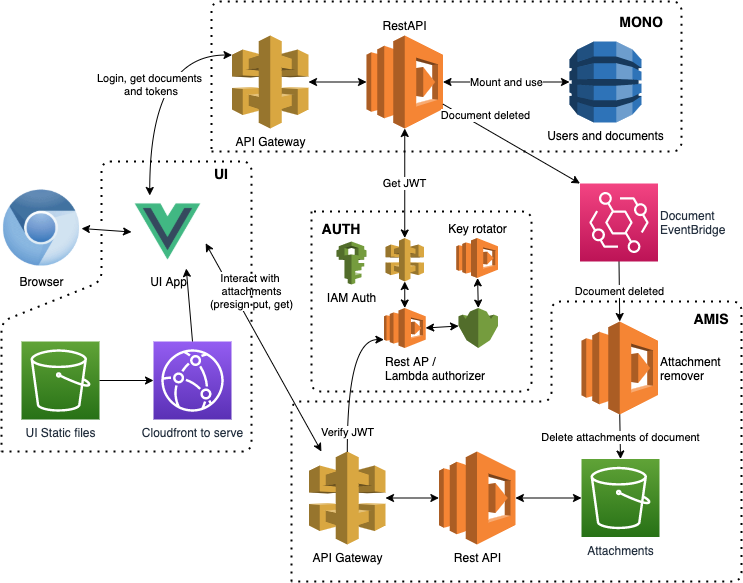
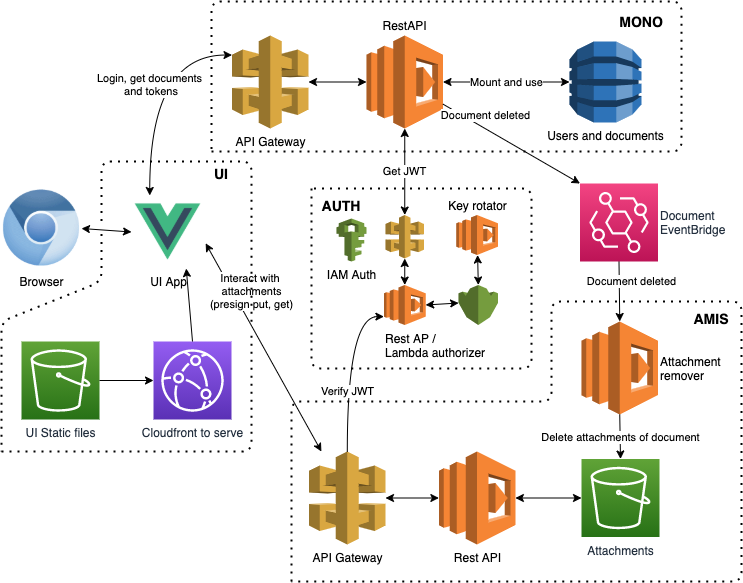
Eventbus to delete attachments when docs are deleted

Changed region(s): [[0.4334, 0.2779, 0.681, 0.6792], [0.7739, 0.4631, 0.9287, 0.5249], [0.4334, 0.7101, 0.4953, 0.7719]]

diff --git a/netcore-monolith-attachment-ms-jwt-auth/cdk/lib/amis.ts b/netcore-monolith-attachment-ms-jwt-auth/cdk/lib/amis.ts
@@ -5,7 +5,7 @@ import * as lambda from "@aws-cdk/aws-lambda";
 import * as s3 from "@aws-cdk/aws-s3";
 import * as cdk from "@aws-cdk/core";
 import * as A from "./auth";
-import { GlobalProps } from "./models";
+import { DELETE_EVENT_BUS_NAME, GlobalProps } from "./models";
 
 const ASSET_LOCATION = "../src/amis/bin/Release/netcoreapp3.1/linux-x64";
 const HANDLER = "amis::Amis.LambdaEntryPoint::FunctionHandlerAsync";
@@ -20,6 +20,7 @@ const BUCKET_NAME = "amis-document-data";
 
 export class Amis {
   lambda: lambda.Function;
+  deleteLambda: lambda.Function;
   eventBus: events.EventBus;
   private authStack: A.Auth;
   private stack: cdk.Stack;
@@ -65,7 +66,7 @@ export class Amis {
   }
 
   private deleter(stack: cdk.Stack) {
-    const fun = new lambda.Function(stack, PREFIX + "DELETE_Lambda", {
+    this.deleteLambda = new lambda.Function(stack, PREFIX + "DELETE_Lambda", {
       runtime: DELETER_RUNTIME,
       code: lambda.Code.fromAsset(DELETER_LOCATION),
       handler: DELETER_HANDLER,
@@ -75,7 +76,7 @@ export class Amis {
     });
 
     this.eventBus = new events.EventBus(stack, PREFIX + "ProfileEventBus", {
-      eventBusName: "DeleteAttachment",
+      eventBusName: DELETE_EVENT_BUS_NAME,
     });
 
     const rule = new events.Rule(stack, PREFIX + "NewRule", {
@@ -85,7 +86,7 @@ export class Amis {
       },
       eventBus: this.eventBus,
     });
-    rule.addTarget(new targets.LambdaFunction(fun));
+    rule.addTarget(new targets.LambdaFunction(this.deleteLambda));
   }
 
   private initBucket() {
@@ -105,6 +106,7 @@ export class Amis {
       ],
     });
     bucket.grantReadWrite(this.lambda);
+    bucket.grantReadWrite(this.deleteLambda);
   }
 
   private withoutAuth() {

diff --git a/netcore-monolith-attachment-ms-jwt-auth/src/ui/src/views/Document.vue b/netcore-monolith-attachment-ms-jwt-auth/src/ui/src/views/Document.vue
@@ -43,7 +43,7 @@
             <p>
               <a href="javascript:void(0)" v-on:click="loadFile(k)">{{k.name}}</a> {{k.lastModified}} {{k.size}}
               <a href="javascript:void(0)" v-on:click="deleteFile(k)" v-if="i.allowDelete">Delete</a>      
-              <a href="javascript:void(0)" v-on:click="deleteFile(k, true)" v-if="i.allowDeleteMy && i.userId == myId">Delete</a>      
+              <a href="javascript:void(0)" v-on:click="deleteFile(k, true)" v-if="i.allowDeleteMy && k.userId == myId">Delete</a>                    
             </p>
           </div>
         </div>
@@ -61,6 +61,7 @@ interface FileDTO {
   lastModified: number;
   path: string;
   size: number;
+  userId: string;
 }
 
 interface File {  
@@ -69,6 +70,7 @@ interface File {
   path: string;
   size: string;
   name: string;
+  userId: string;
 }
 
 interface Area {
@@ -139,6 +141,7 @@ export default class Document extends Vue {
         area: parts[1],
         name: parts[2],
         path: i.path,
+        userId: i.userId,
         size: i.size.toString() // Should be formatted nicely
         }
       });
@@ -153,7 +156,7 @@ export default class Document extends Vue {
           allowDelete: perm[i].indexOf('DELETE') !== -1,
           allowDeleteMy: perm[i].indexOf('DELETE-MY') !== -1
         } 
-      });      
+      });            
   }
 
   public async loadFile(f: File) {
@@ -179,7 +182,7 @@ export default class Document extends Vue {
   }
 
   async selectedFile(event: any) {
-    if (!this.addingTo) {
+    if (!this.addingTo || event.target.files.length != 1) {
       return;
     }
     const file = event.target.files[0];      

diff --git a/netcore-monolith-attachment-ms-jwt-auth/src/amis-delete-doc/main.ts b/netcore-monolith-attachment-ms-jwt-auth/src/amis-delete-doc/main.ts
@@ -1,32 +1,34 @@
 import * as aws from "aws-sdk";
 
-export class S3Service {
-  private readonly s3: aws.S3;
-
-  constructor() {
-    this.s3 = new aws.S3();
-  }
-}
-
 export async function lambdaHandler(event, context) {
   console.log(event);
-  /*
-  this.s3 = new aws.S3();
-  const params = {
-    Bucket: process.env.bucketName,
-    Key: location,
-  };
-  await this.s3.deleteObject(params).promise();
-  */
+  const docId = event.detail.docId;
+  const s3 = new aws.S3();
 
-  return {
-    statusCode: 200,
-    headers: { "Content-Type": "text/json" },
-    body: JSON.stringify({
-      msg: "Hello world!",
-      event,
-      context,
-      env: process.env,
-    }),
+  const listParams = {
+    Bucket: process.env.bucketName,
+    Prefix: docId,
   };
+
+  const promise = new Promise((resolve, reject) => {
+    s3.listObjects(listParams, (err, objects) => {
+      if (err) {
+        console.log("Error with list ", listParams, err);
+        reject();
+      } else {
+        const promises = objects.Contents.map((i) => {
+          console.log("Deleting " + i.Key);
+          const params = {
+            Bucket: process.env.bucketName,
+            Key: i.Key,
+          };
+          return s3.deleteObject(params).promise();
+        });
+        Promise.all(promises).then((i) => resolve(true));
+      }
+    });
+  });
+  await promise;
+  console.log(`All attachments for ${docId} deleted.`);
+  return true;
 }

diff --git a/netcore-monolith-attachment-ms-jwt-auth/cdk/lib/mono.ts b/netcore-monolith-attachment-ms-jwt-auth/cdk/lib/mono.ts
@@ -7,7 +7,7 @@ import * as cdk from "@aws-cdk/core";
 import { Duration } from "@aws-cdk/core";
 import { Auth } from "./auth";
 import { CdkStack } from "./cdk-stack";
-import { GlobalProps } from "./models";
+import { DELETE_EVENT_BUS_NAME, GlobalProps } from "./models";
 
 const ASSET_LOCATION = "../src/mono/bin/Release/netcoreapp3.1/linux-x64";
 const HANDLER = "mono::Mono.LambdaEntryPoint::FunctionHandlerAsync";
@@ -39,6 +39,7 @@ export class Mono {
       environment: {
         authUrl: authStack.apigw.url + "jwt",
         authType: props.amisAuth,
+        deleteEventBus: DELETE_EVENT_BUS_NAME,
       },
     });
 

diff --git a/netcore-monolith-attachment-ms-jwt-auth/src/ui/src/App.vue b/netcore-monolith-attachment-ms-jwt-auth/src/ui/src/App.vue
@@ -47,6 +47,7 @@ export default {
     doLogout() {
       console.log('Logging out');
       (this as any).$store.state.isLoggedIn = false;
+      (this as any).$store.state.permissions = undefined;
       (this as any).$router.push('/');
     }
   }

diff --git a/netcore-monolith-attachment-ms-jwt-auth/cdk/lib/models.ts b/netcore-monolith-attachment-ms-jwt-auth/cdk/lib/models.ts
@@ -1,3 +1,5 @@
 export interface GlobalProps {
   amisAuth: "api" | "lambda" | "jwt";
 }
+
+export const DELETE_EVENT_BUS_NAME = "DeleteAttachment";

diff --git a/netcore-monolith-attachment-ms-jwt-auth/src/mono/Utils/EventBus.cs b/netcore-monolith-attachment-ms-jwt-auth/src/mono/Utils/EventBus.cs
@@ -1,0 +1,52 @@
+using System;
+using System.Threading.Tasks;
+using Amazon.EventBridge;
+using Amazon.EventBridge.Model;
+
+namespace Mono.Utils
+{
+    public interface IEventBus
+    {
+        Task SendDeleteAttachmentEvent(string docId);
+        Task<PutEventsResponse> SendEvent(PutEventsRequestEntry eventEntry);
+    }
+
+    public class EventBus : IEventBus
+    {
+        public EventBus()
+        {
+        }
+
+        public async Task SendDeleteAttachmentEvent(string docId)
+        {
+            var eventEntry = new PutEventsRequestEntry
+            {
+                Source = "mono.deleteDocument",
+                EventBusName = Environment.GetEnvironmentVariable("deleteEventBus"),
+                DetailType = "transaction",
+                Time = DateTime.Now,
+                Detail = Jsoner.Convert(
+                            new
+                            {
+                                docId
+                            }
+                        )
+            };
+            await SendEvent(eventEntry);
+        }
+
+        public async Task<PutEventsResponse> SendEvent(PutEventsRequestEntry eventEntry)
+        {
+            var request = new PutEventsRequest
+            {
+                Entries =
+                {                    
+                    eventEntry
+                }
+            };
+            PutEventsRequest events = request;
+            AmazonEventBridgeClient client = new AmazonEventBridgeClient();
+            return await client.PutEventsAsync(events);
+        }
+    }
+}

diff --git a/netcore-monolith-attachment-ms-jwt-auth/src/amis/Controllers/FilesController.cs b/netcore-monolith-attachment-ms-jwt-auth/src/amis/Controllers/FilesController.cs
@@ -39,7 +39,7 @@ namespace Amis.Controllers
                 Prefix = docId
             };
 
-            var readAreas = securityContext.GetReadAreas();
+            var readAreas = securityContext.GetReadAreas().Select(i => i.ToLower());
             var files = new List<S3FileDTO>();
             var client = s3.GetClient();
             ListObjectsV2Response response;
@@ -50,7 +50,7 @@ namespace Amis.Controllers
             {                
                 foreach (var j in readAreas)
                 {
-                    if (i.Key.StartsWith(docId + "/" + j))
+                    if (i.Key.ToLower().StartsWith(docId + "/" + j))
                     {
                         var metadataRequest = new GetObjectMetadataRequest
                         {
@@ -110,9 +110,8 @@ namespace Amis.Controllers
         {
             var key = docId + "/" + area + "/" + file;
             var metadata = await s3.GetObjectMetadata(key);
-            var userId = securityContext.GetUser().Id;
-            Console.WriteLine("Trying to delete for " + userId);
-            if (userId != metadata["userId"])
+            var userId = securityContext.GetUser().Id;            
+            if (userId != metadata["userid"])
             {
                 Response.StatusCode = 403;
                 return "";

diff --git a/netcore-monolith-attachment-ms-jwt-auth/src/mono/Controllers/DocumentsController.cs b/netcore-monolith-attachment-ms-jwt-auth/src/mono/Controllers/DocumentsController.cs
@@ -5,6 +5,7 @@ using System.Threading.Tasks;
 using AutoMapper;
 using Microsoft.AspNetCore.Mvc;
 using Mono.Attributes;
+using Mono.BL;
 using Mono.DTO;
 using Mono.Repositories;
 using Mono.Repositories.Models;
@@ -20,15 +21,18 @@ namespace Mono.Controllers
         private readonly IInitData initData;
         private readonly IDocumentRepository documentRepository;
         private readonly IMapper mapper;
+        private readonly IDocumentLogic documentLogic;
 
         public DocumentsController(
             IInitData initData,
+            IDocumentLogic documentLogic,
             IDocumentRepository documentRepository,
             IMapper mapper)
         {
             this.initData = initData;
             this.documentRepository = documentRepository;
             this.mapper = mapper;
+            this.documentLogic = documentLogic;
         }
 
         [HttpGet("")]
@@ -55,7 +59,7 @@ namespace Mono.Controllers
         [HttpDelete("{id}")]
         public async Task<string> RemoveById(string id)
         {
-            await documentRepository.RemoveById(id);
+            await documentLogic.RemoveById(id);
             return Jsoner.Ok();
         }
     }

diff --git a/netcore-monolith-attachment-ms-jwt-auth/src/mono/BL/DocumentLogic.cs b/netcore-monolith-attachment-ms-jwt-auth/src/mono/BL/DocumentLogic.cs
@@ -1,0 +1,33 @@
+using System.Threading.Tasks;
+using Mono.Repositories;
+using Mono.Utils;
+
+namespace Mono.BL
+{
+
+    public interface IDocumentLogic
+    {
+        Task RemoveById(string docId);        
+    }
+
+    public class DocumentLogic : IDocumentLogic
+    {
+        private readonly IEventBus eventBus;
+        private readonly IDocumentRepository documentRepository;
+
+        public DocumentLogic(
+            IDocumentRepository documentRepository,
+            IEventBus eventBus)
+        {
+            this.eventBus = eventBus;
+            this.documentRepository = documentRepository;
+        }
+
+        public async Task RemoveById(string docId)
+        {
+            await documentRepository.RemoveById(docId);
+            await eventBus.SendDeleteAttachmentEvent(docId);
+        }
+    }
+
+}

diff --git a/netcore-monolith-attachment-ms-jwt-auth/src/mono/Controllers/ValuesController.cs b/netcore-monolith-attachment-ms-jwt-auth/src/mono/Controllers/ValuesController.cs
@@ -41,14 +41,7 @@ namespace Mono.Controllers
                         Detail = Jsoner.Convert(
                             new
                             {
-                                action = "withdrawal",
-                                location = "MA-BOS-01",
-                                amount = 500,
-                                result = "approved",
-                                transactionId = "123456",
-                                cardPresent = true,
-                                partnerBank = "Example Bank",
-                                remainingFunds = 723.34
+                                docId = "temp"
                             }
                         )
                     }

diff --git a/netcore-monolith-attachment-ms-jwt-auth/src/amis/Utils/S3.cs b/netcore-monolith-attachment-ms-jwt-auth/src/amis/Utils/S3.cs
@@ -63,7 +63,8 @@ namespace Amis.Utils
                 using (StreamReader reader = new StreamReader(responseStream))
                 {
                     foreach (var item in response.Metadata.Keys)
-                    {                        
+                    {
+                        Console.WriteLine("Found metadata " + item + ":" + response.Metadata[item]);
                         metadata.Add(item.Replace("x-amz-meta-", ""), response.Metadata[item]);
                     }                        
                 }                
